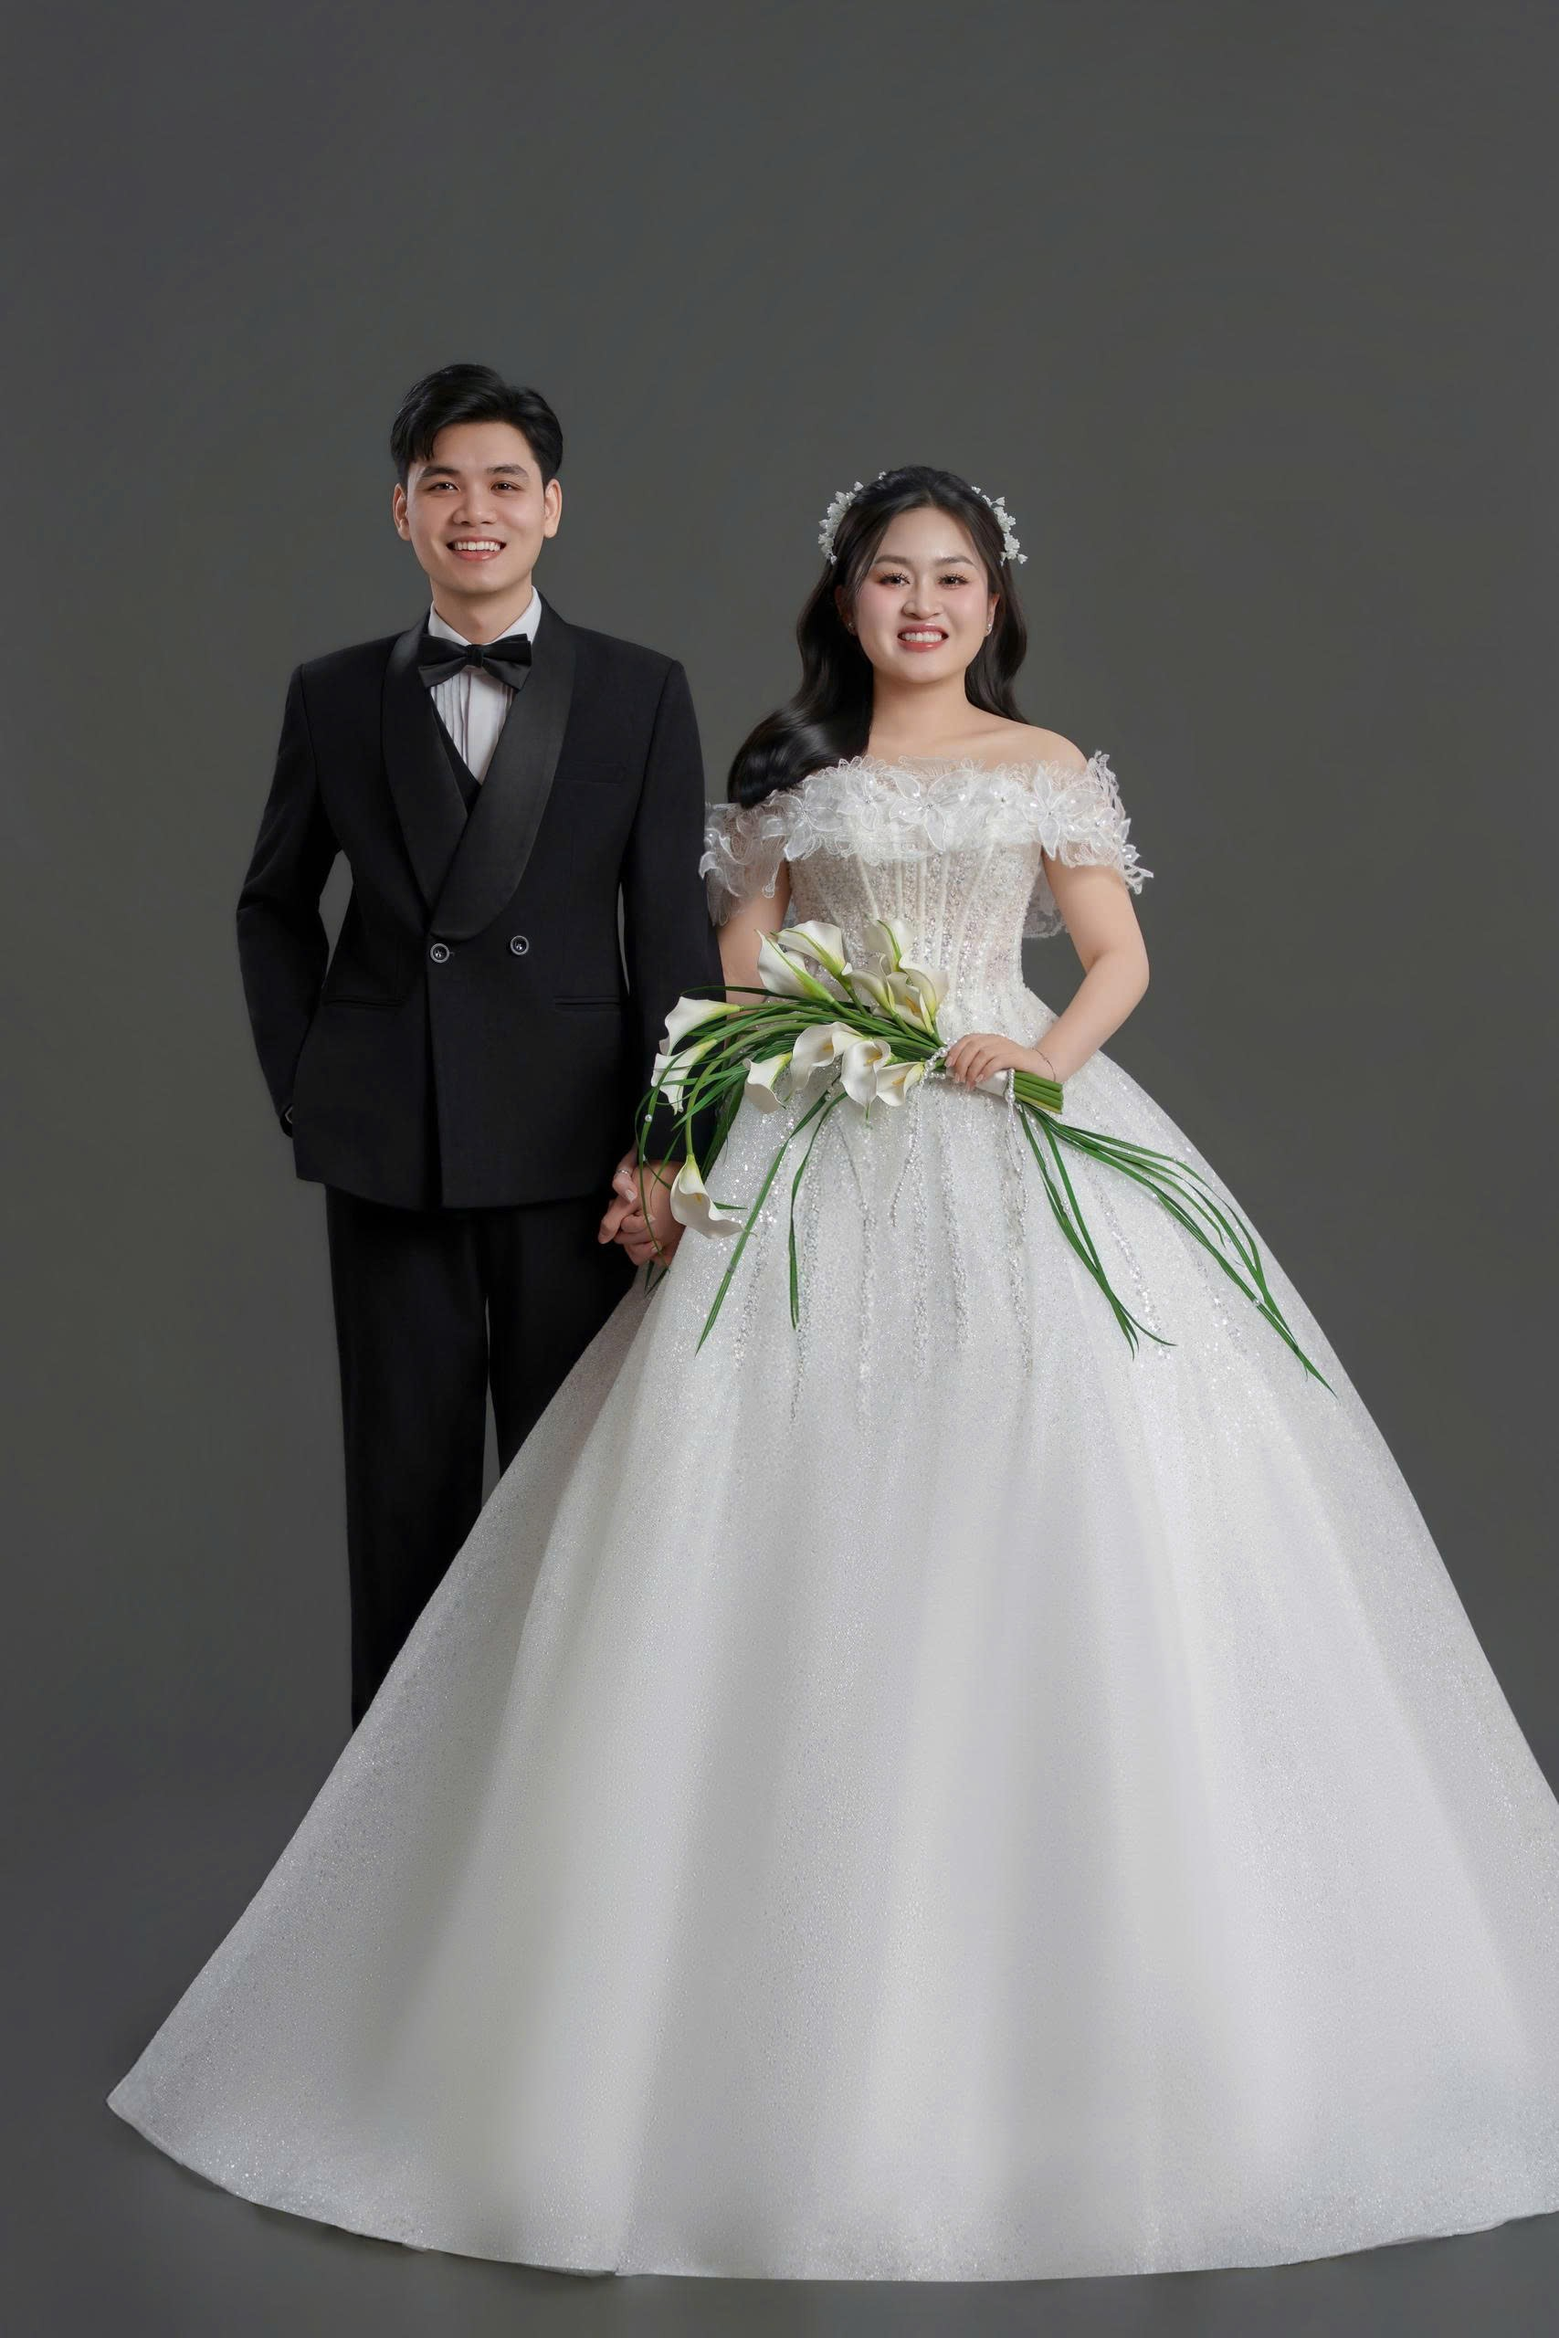
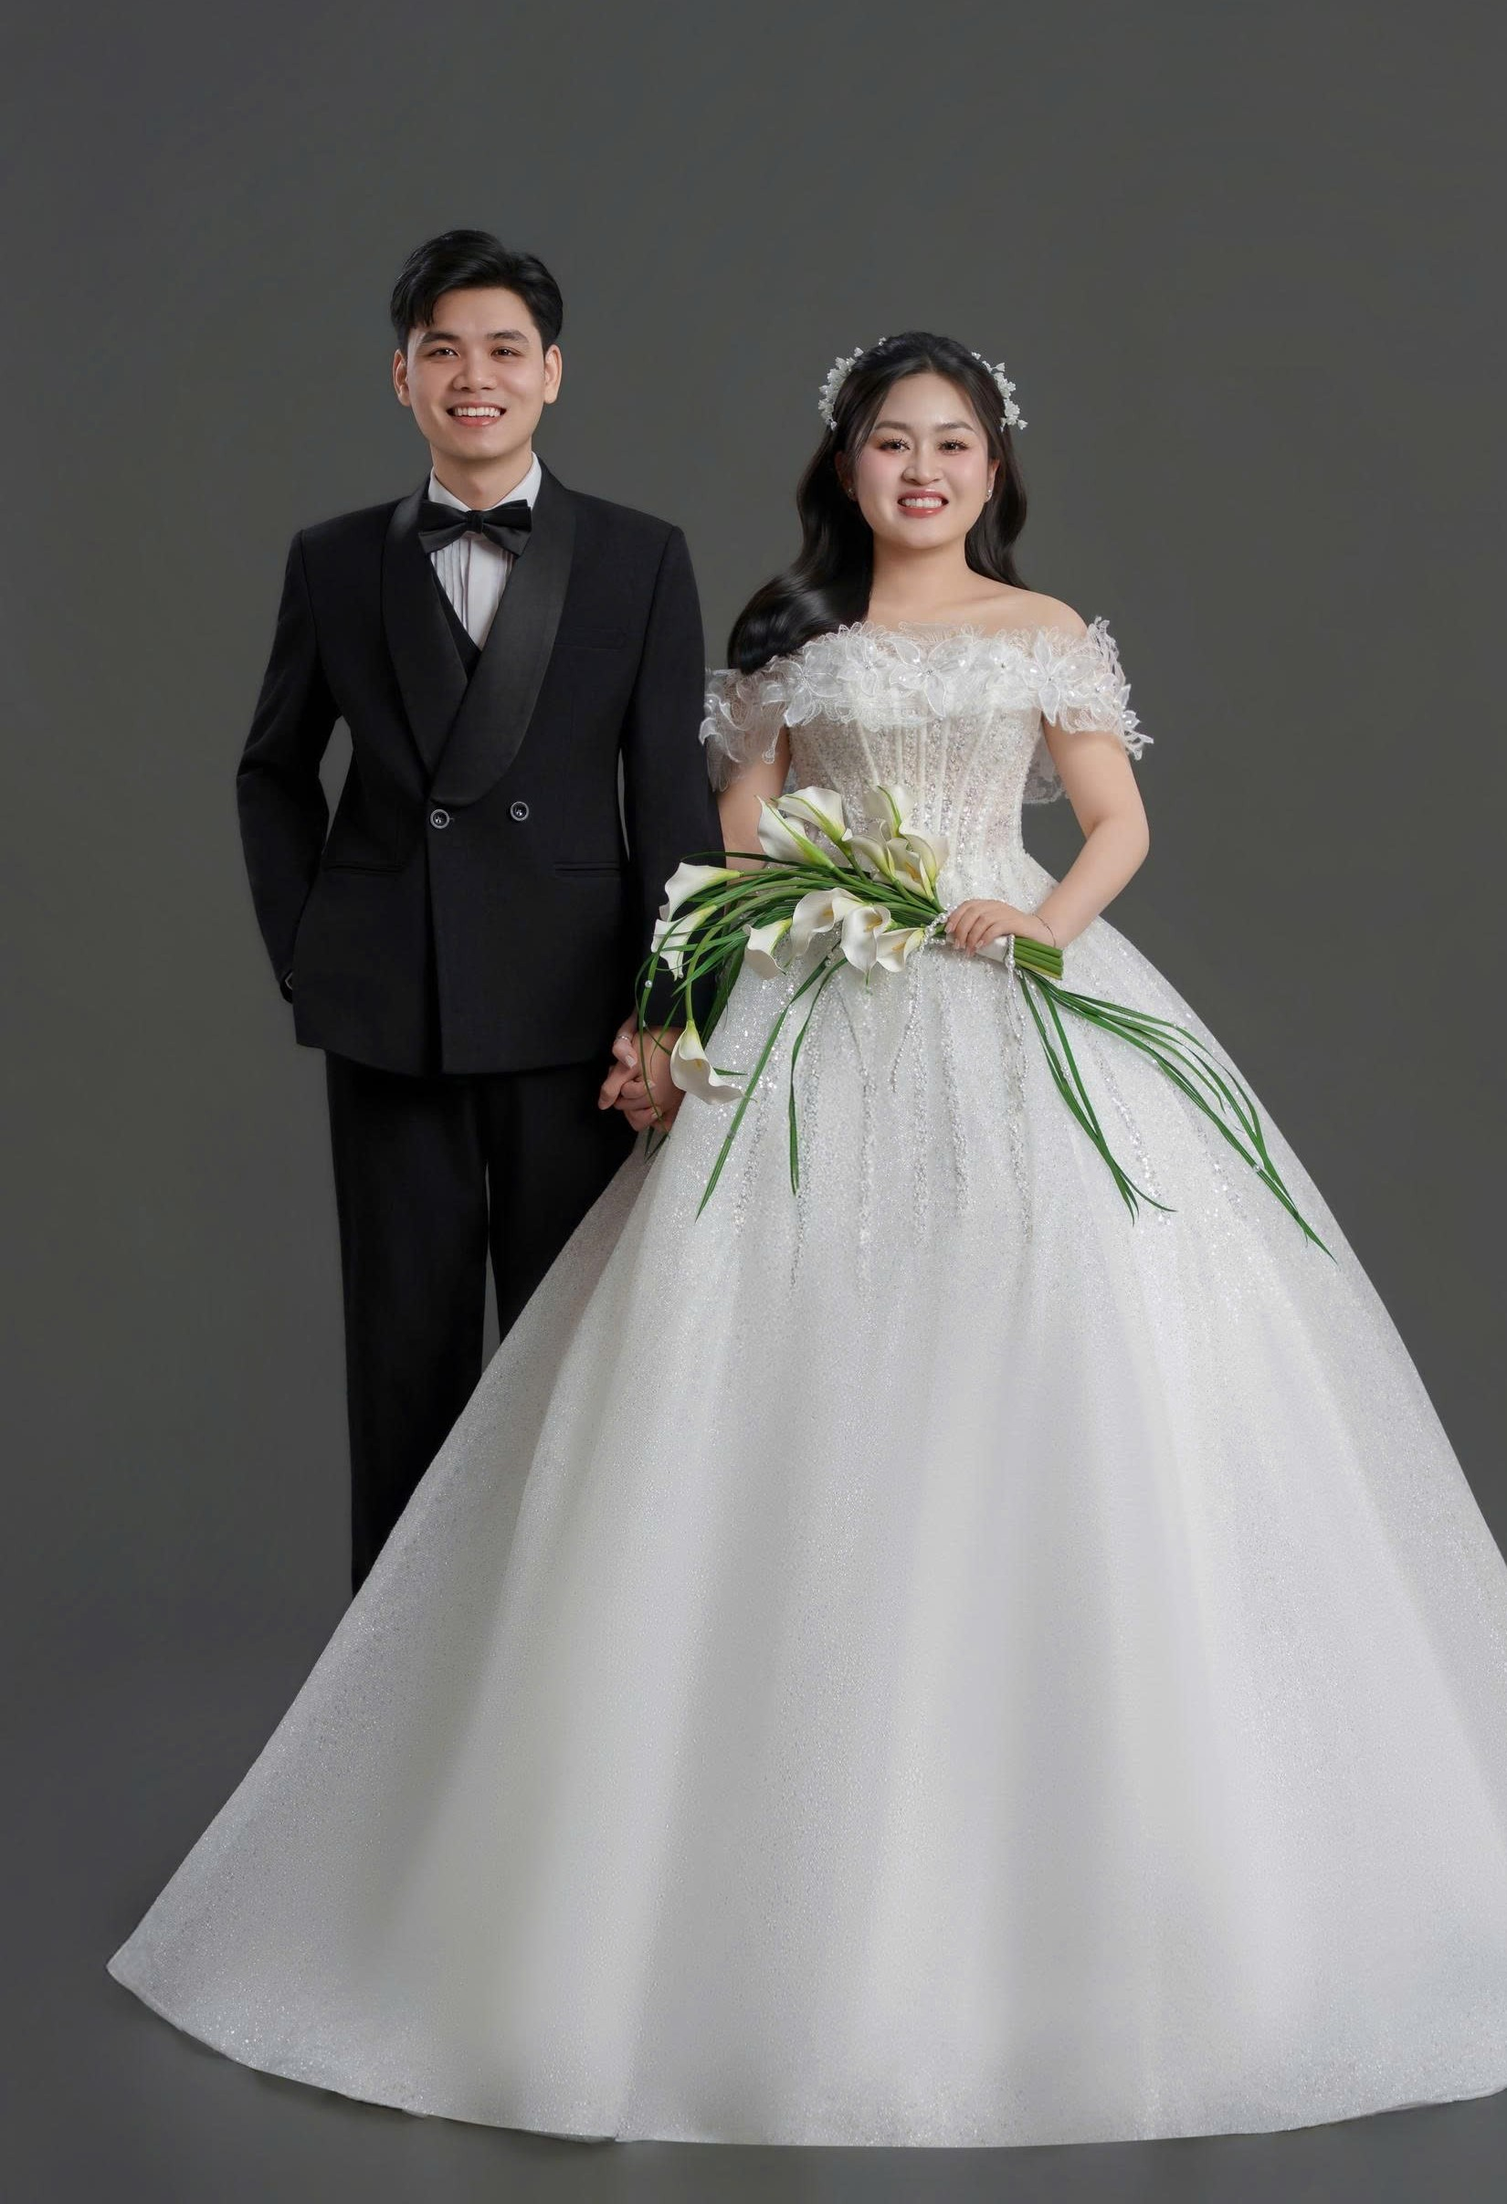
update

diff --git a/index.html b/index.html
@@ -94,7 +94,7 @@
       color: #fff;
       font-family: "Playfair Display", serif;
       font-weight: 700;
-      padding: 10px 14px;
+      padding: 5px 12px;
       border-radius: 999px;
       cursor: pointer;
       transition: transform .12s ease, background .15s ease;
@@ -162,73 +162,67 @@
     .hero-arc {
       position: absolute;
       inset: 0;
-      display: flex;
-      align-items: flex-end;
-      justify-content: center;
-      padding: 0 14px 0;
+      overflow: hidden;
+      border-radius: var(--rBig);
+      z-index: 1;
     }
 
-    .hero-arc::before {
+    .hero-arc::after {
       content: "";
       position: absolute;
-      width: 132%;
-      height: 132%;
-      left: 50%;
-      transform: translateX(-50%);
-      top: -46%;
-      background: #d9d9d9;
-      border-radius: 999px;
+      inset: 0;
+      pointer-events: none;
+
+      background:
+        radial-gradient(ellipse at center,
+          rgba(0, 0, 0, 0) 40%,
+          rgba(0, 0, 0, .18) 100%);
+
+      mix-blend-mode: multiply;
     }
 
     .hero-photo {
-      position: relative;
-      z-index: 1;
-      display: block;
-      width: auto;
+      width: 100%;
       height: 100%;
-      max-height: 100%;
-      object-fit: contain;
-      align-self: flex-end;
-      max-width: 92%;
+      object-fit: cover;
+      object-position: center 18%;
+      display: block;
     }
 
     .love-arc {
       position: absolute;
-      left: 10px;
-      top: 16px;
-      width: 210px;
-      height: 210px;
-      z-index: 3;
+      right: 16px;
+      top: 14px;
+      width: 240px;
+      height: 240px;
+      z-index: 4;
       pointer-events: none;
-      opacity: .96;
     }
 
     .love-arc text {
       font-family: "Playfair Display", serif;
-      letter-spacing: .38em;
+      letter-spacing: .48em;
+      font-size: 13px;
       font-weight: 600;
-      font-size: 14px;
-      fill: rgba(255, 255, 255, .95);
+      fill: rgba(255, 255, 255, .96);
     }
 
     .line-flower {
       position: absolute;
-      left: 10px;
-      top: 150px;
-      width: 54px;
-      height: 54px;
-      z-index: 3;
-      opacity: .90;
-      pointer-events: none;
-      filter: drop-shadow(0 8px 18px rgba(0, 0, 0, .18));
+      right: 26px;
+      top: 110px;
+      width: 44px;
+      height: 44px;
+      z-index: 5;
+
+      opacity: .85;
+      filter: drop-shadow(0 6px 16px rgba(0, 0, 0, .15));
     }
 
     .line-flower path {
-      stroke: rgba(255, 255, 255, .96);
-      stroke-width: 1.6;
+      stroke: rgba(255, 255, 255, .95);
+      stroke-width: 1.5;
       fill: none;
-      stroke-linecap: round;
-      stroke-linejoin: round;
     }
 
     .cover-info {
@@ -719,7 +713,7 @@
 
     /* photo */
     .m-photo {
-      background: #f6f6f6;
+      background: #fff;
       display: flex;
       align-items: center;
       justify-content: center;
@@ -852,14 +846,14 @@
 
     .gimg img {
       width: 100%;
-      height: 280px;
+      height: 500px;
       object-fit: cover;
       display: block;
     }
 
-    @media(min-width:820px) {
+    @media(min-width:521px) {
       .gimg img {
-        height: 320px;
+        height: 500px;
       }
     }
 
@@ -1094,23 +1088,25 @@
       text-align: left;
       padding-left: 5px;
       padding-right: 20px;
+      margin-top: 20px;
       transform: translateX(-56px);
     }
 
     /* Tên Cô Dâu: Đẩy sang phải và thêm padding phải cực rộng để nét chữ n cuối không bị mất */
     .name-right {
       text-align: right;
-      margin-top: 10px;
       padding-top: 40px;
       padding-right: 120px;
-      /* Tăng mạnh padding này để giữ nét chữ 'n' và dấu */
       transform: translateX(56px);
     }
 
     @media (max-width:600px) {
       .name-right {
-        margin-top: 30px;
         padding-right: 80px;
+      }
+
+      .name-left {
+        margin-top: 5px;
       }
     }
 
@@ -1337,8 +1333,8 @@
       }
 
       .btn {
-        width: 100%;
-        max-width: 360px;
+        width: 50%;
+        max-width: 300px;
         justify-content: center;
         padding: 10px 12px;
         font-size: 10px;
@@ -1477,7 +1473,7 @@
       }
 
       .big-num {
-        font-size: 28px;
+        font-size: 22px;
       }
 
       .lunar {
@@ -1610,7 +1606,7 @@
       }
 
       .gimg img {
-        height: 240px;
+        height: 440px;
       }
 
       .withyou {
@@ -1638,7 +1634,7 @@
       }
 
       .splash-sub {
-        font-size: 13px;
+        font-size: 12px;
       }
 
       .center-heart {
@@ -1753,11 +1749,11 @@
     /* Trạng thái ban đầu: Bé tí và ẩn */
     .center-heart {
       position: absolute;
-      top: 45%;
+      top: 48%;
       left: 50%;
-      transform: translate(-50%, -50%) scale(0);
+      transform: translate(-50%, -50%) scale(0.1);
       opacity: 0;
-      transition: transform 1s cubic-bezier(0.175, 0.885, 0.32, 1.275), opacity 0.5s ease;
+      transition: transform 1.8s cubic-bezier(.12, .9, .3, 1), opacity 0.5s ease;
       color: #9B1B30;
       /* Màu đỏ hồng rực rỡ */
       z-index: 999;
@@ -1765,7 +1761,7 @@
 
     @media (max-width: 500px) {
       .center-heart {
-        top: 43%;
+        top: 44%;
       }
     }
 
@@ -1899,7 +1895,7 @@
               <path id="arcPath" d="M 28 190 A 110 110 0 0 1 190 28" />
             </defs>
             <text>
-              <textPath href="#arcPath" startOffset="2%">I&nbsp;LOVE&nbsp;YOU</textPath>
+              <textPath href="#arcPath" startOffset="2%">I LOVE YOU</textPath>
             </text>
           </svg>
 
@@ -1989,7 +1985,7 @@
           <span class="sep">|</span>
           <span class="big-num" id="cerDate">22.03.2026</span>
           <span class="sep">|</span>
-          <span class="big-num" style="font-size:28px;color:var(--ink)" id="cerDay">Chủ Nhật</span>
+          <span class="big-num" style="color:var(--ink)" id="cerDay">Chủ Nhật</span>
         </div>
         <div class="lunar" id="lunarText">Tức ngày ...</div>
       </div>
@@ -2001,11 +1997,10 @@
         <div style="margin-top:10px;">
           <a class="btn" id="btnMapMain" target="_blank" rel="noreferrer">
 
-            <svg class="icon-map" viewBox="0 0 24 24">
+            <svg class="icon-map" viewBox="0 0 20 22">
               <path
                 d="M12 2C8.13 2 5 5.13 5 9c0 5.25 7 13 7 13s7-7.75 7-13c0-3.87-3.13-7-7-7zm0 9.5c-1.38 0-2.5-1.12-2.5-2.5s1.12-2.5 2.5-2.5 2.5 1.12 2.5 2.5-1.12 2.5-2.5 2.5z" />
             </svg>
-
             Chỉ đường
           </a>
         </div>
@@ -2023,7 +2018,7 @@
           <div style="margin-top:10px;">
             <a class="btn" id="btnMapGroom" target="_blank" rel="noreferrer">
 
-              <svg class="icon-map" viewBox="0 0 24 24">
+              <svg class="icon-map" viewBox="0 0 20 22">
                 <path
                   d="M12 2C8.13 2 5 5.13 5 9c0 5.25 7 13 7 13s7-7.75 7-13c0-3.87-3.13-7-7-7zm0 9.5c-1.38 0-2.5-1.12-2.5-2.5s1.12-2.5 2.5-2.5 2.5 1.12 2.5 2.5-1.12 2.5-2.5 2.5z" />
               </svg>
@@ -2044,7 +2039,7 @@
           <div style="margin-top:10px;">
             <a class="btn" id="btnMapBride" target="_blank" rel="noreferrer">
 
-              <svg class="icon-map" viewBox="0 0 24 24">
+              <svg class="icon-map" viewBox="0 0 20 22">
                 <path
                   d="M12 2C8.13 2 5 5.13 5 9c0 5.25 7 13 7 13s7-7.75 7-13c0-3.87-3.13-7-7-7zm0 9.5c-1.38 0-2.5-1.12-2.5-2.5s1.12-2.5 2.5-2.5 2.5 1.12 2.5 2.5-1.12 2.5-2.5 2.5z" />
               </svg>
@@ -2587,7 +2582,7 @@
       const main = document.getElementById("main");
 
       try { await document.fonts.ready; } catch { }
-
+      if (MUSIC_DEFAULT_ON) await playMusicSmooth();
       // Bước 1: Hiện tên cô dâu chú rể
       setTimeout(() => {
         box.classList.add("play");
@@ -2607,8 +2602,6 @@
         setTimeout(() => {
 
           // BƯỚC 3: PHÓNG LỚN (Sửa đoạn này)
-
-          // Ép trình duyệt tính toán lại trước khi Expand
           void heart.offsetWidth;
 
           heart.classList.remove("shake");
@@ -2616,33 +2609,32 @@
           void heart.offsetWidth;
           heart.classList.add("expand");
 
-          // BƯỚC QUAN TRỌNG: Gọi tung hoa khi tim đang nở rộ
+
+          requestAnimationFrame(() => {
+            main.classList.add("show");
+          });
+
+          /* splash fade sớm hơn */
+          splash.style.transition = "opacity .6s ease";
+          splash.style.opacity = "0";
+         /* HIỆN MAIN NGAY KHI TIM BẮT ĐẦU NỞ */
+          main.style.display = "block";
           setTimeout(() => {
+
             const cx = window.innerWidth / 2;
             const cy = window.innerHeight / 2;
-            main.style.display = "block";
-            // 1. Tung hoa bùng nổ
-            burstPetals(cx, cy);
 
-            // 2. Bắt đầu mưa hoa rơi nhẹ (Rain) nếu bạn muốn sau khi nổ là hoa rơi
+            burstPetals(cx, cy);
             startRain(4000);
 
-            // 3. Hiện màn hình Main
+            musicBtn.classList.add("show");
 
-            requestAnimationFrame(() => {
-              main.classList.add("show");
-              musicBtn.classList.add("show");
-            });
-
-            // Làm mờ Splash nhanh hơn (giảm từ 1000ms xuống 400ms)
-            splash.style.transition = "opacity 0.4s ease";
-            splash.style.opacity = "0";
             setTimeout(() => {
               splash.style.display = "none";
               heart.style.display = "none";
-            }, 1000);
+            }, 700);
 
-          }, 1200);
+          }, 300);
 
         }, 3000); // Thời gian rung là 1s
 
